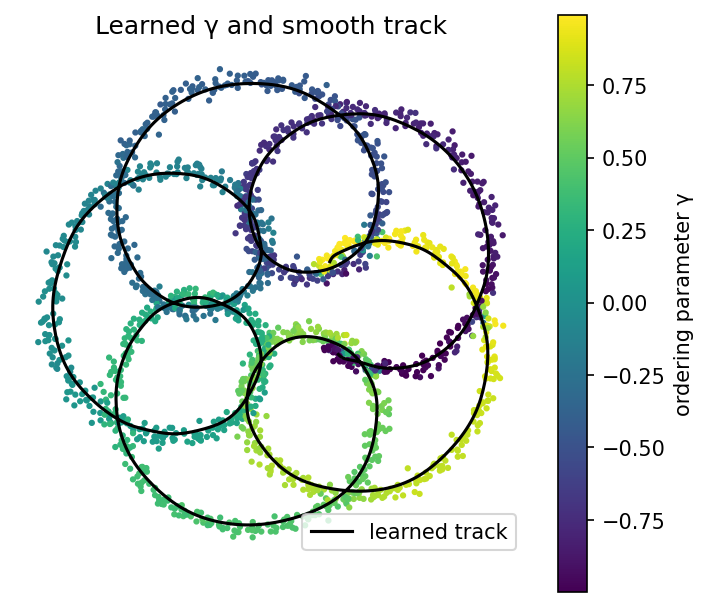
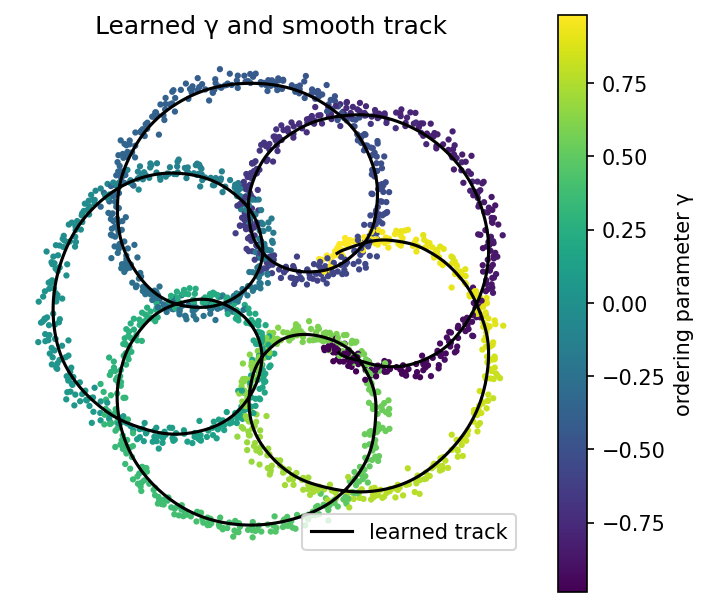
📝 docs: blog figure 3 trains the autoencoder on the MST | SOM ordering

diff --git a/blog/make_figures.py b/blog/make_figures.py
@@ -114,12 +114,12 @@ decoder = pcf.nn.FourierTrackNet(
     out_size=2, n_frequencies=12, width_size=256, depth=4, key=dec_key
 )
 model = pcf.nn.PathAutoencoder.make(
-    normalizer, gamma_range=res_vel.gamma_range, decoder=decoder, key=enc_key
+    normalizer, gamma_range=res_som.gamma_range, decoder=decoder, key=enc_key
 )
 config = pcf.nn.TrainingConfig(
     n_epochs_encoder=800, n_epochs_decoder=1200, n_epochs_both=0
 )
-ae, _, _ = pcf.nn.train_autoencoder(model, res_vel, key=train_key, config=config)
+ae, _, _ = pcf.nn.train_autoencoder(model, res_som, key=train_key, config=config)
 
 gamma, _ = ae.model.encode(qs, ps)
 track = ae(jnp.linspace(*ae.gamma_range, 1_000))

diff --git a/blog/2026-10-phasecurvefit.md b/blog/2026-10-phasecurvefit.md
@@ -84,6 +84,8 @@ result.ordering  # sample indices, tip to tip
 
 <!--
 - An ordering is discrete; science needs a continuous track γ -> position.
+- Full pipeline: MST -> SOM -> autoencoder. The MST | SOM ordering from the
+  previous figure is the autoencoder's training input.
 - PathAutoencoder: encoder gives every sample a γ (including ones an orderer
   skipped); decoder gives a smooth track. Decoder is swappable (FourierTrackNet
   for sharp bends here).
@@ -93,8 +95,9 @@ result.ordering  # sample indices, tip to tip
 
 ![Samples coloured by learned γ with the smooth learned track](images/03-track.png)
 
-_The autoencoder assigns an ordering parameter γ to every sample and learns a
-smooth track that follows each loop and crossing._
+_Trained on the MST | SOM ordering, the autoencoder assigns an ordering
+parameter γ to every sample and learns a smooth track that follows each loop and
+crossing._
 
 ## Other things it does
 
